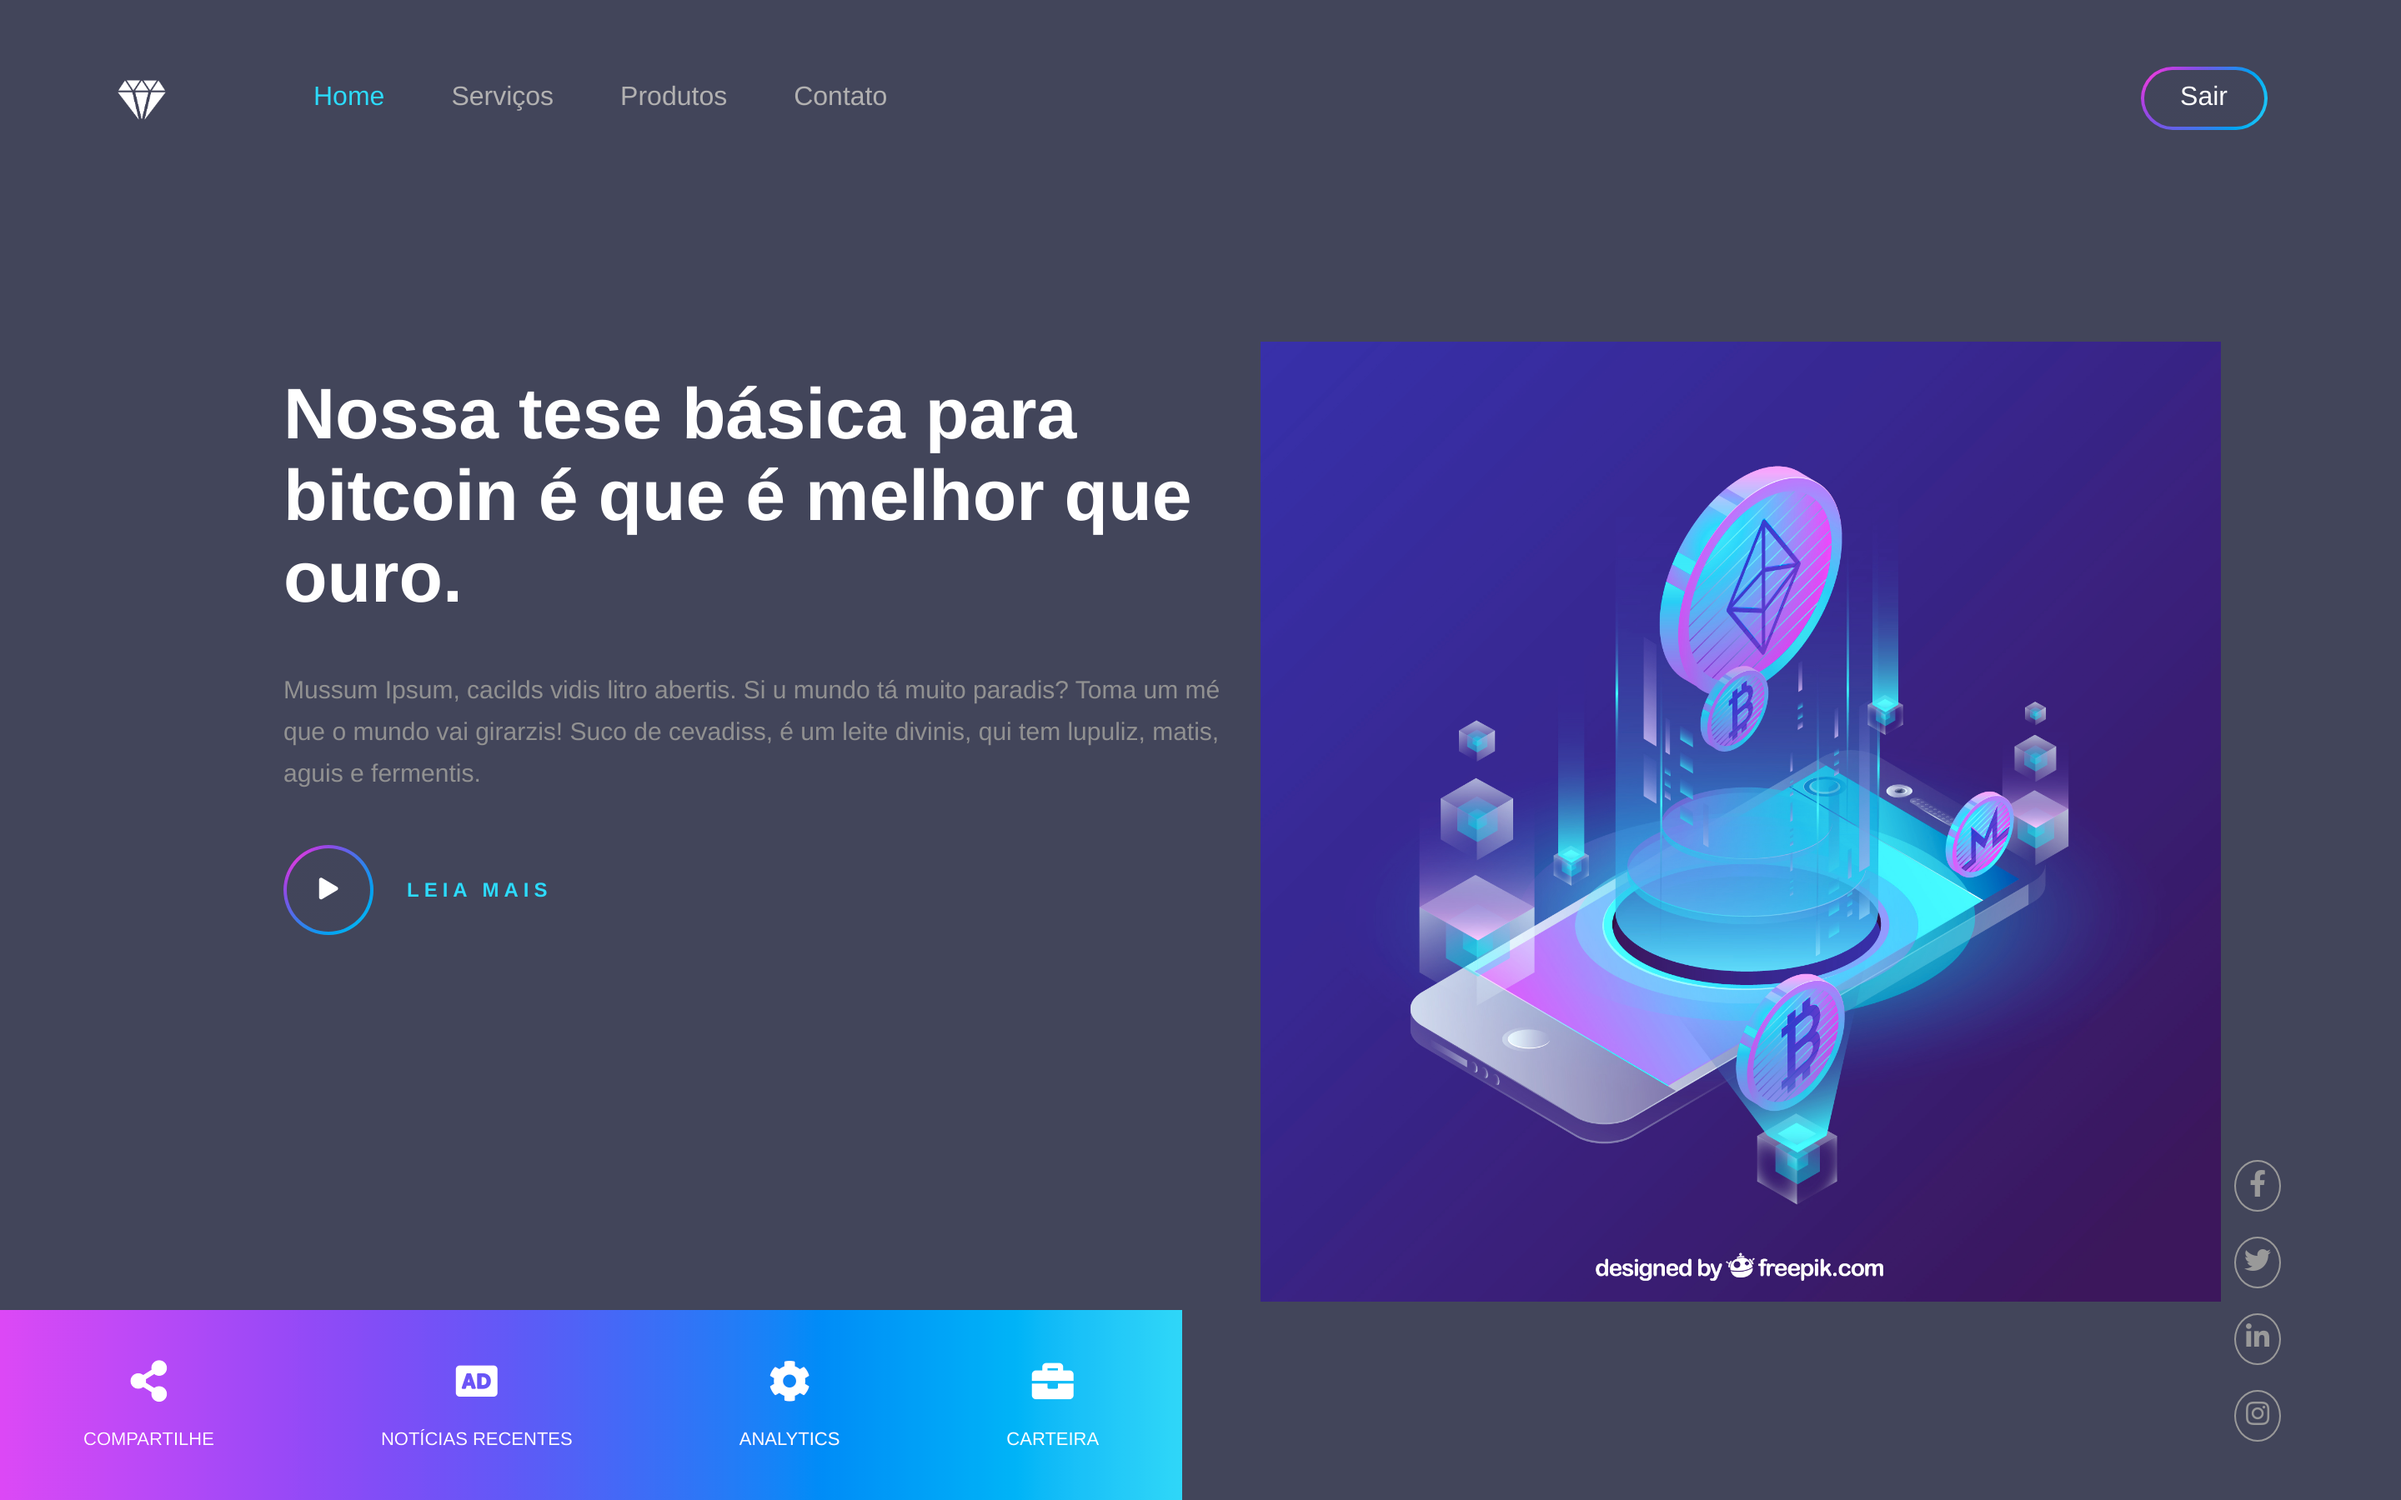
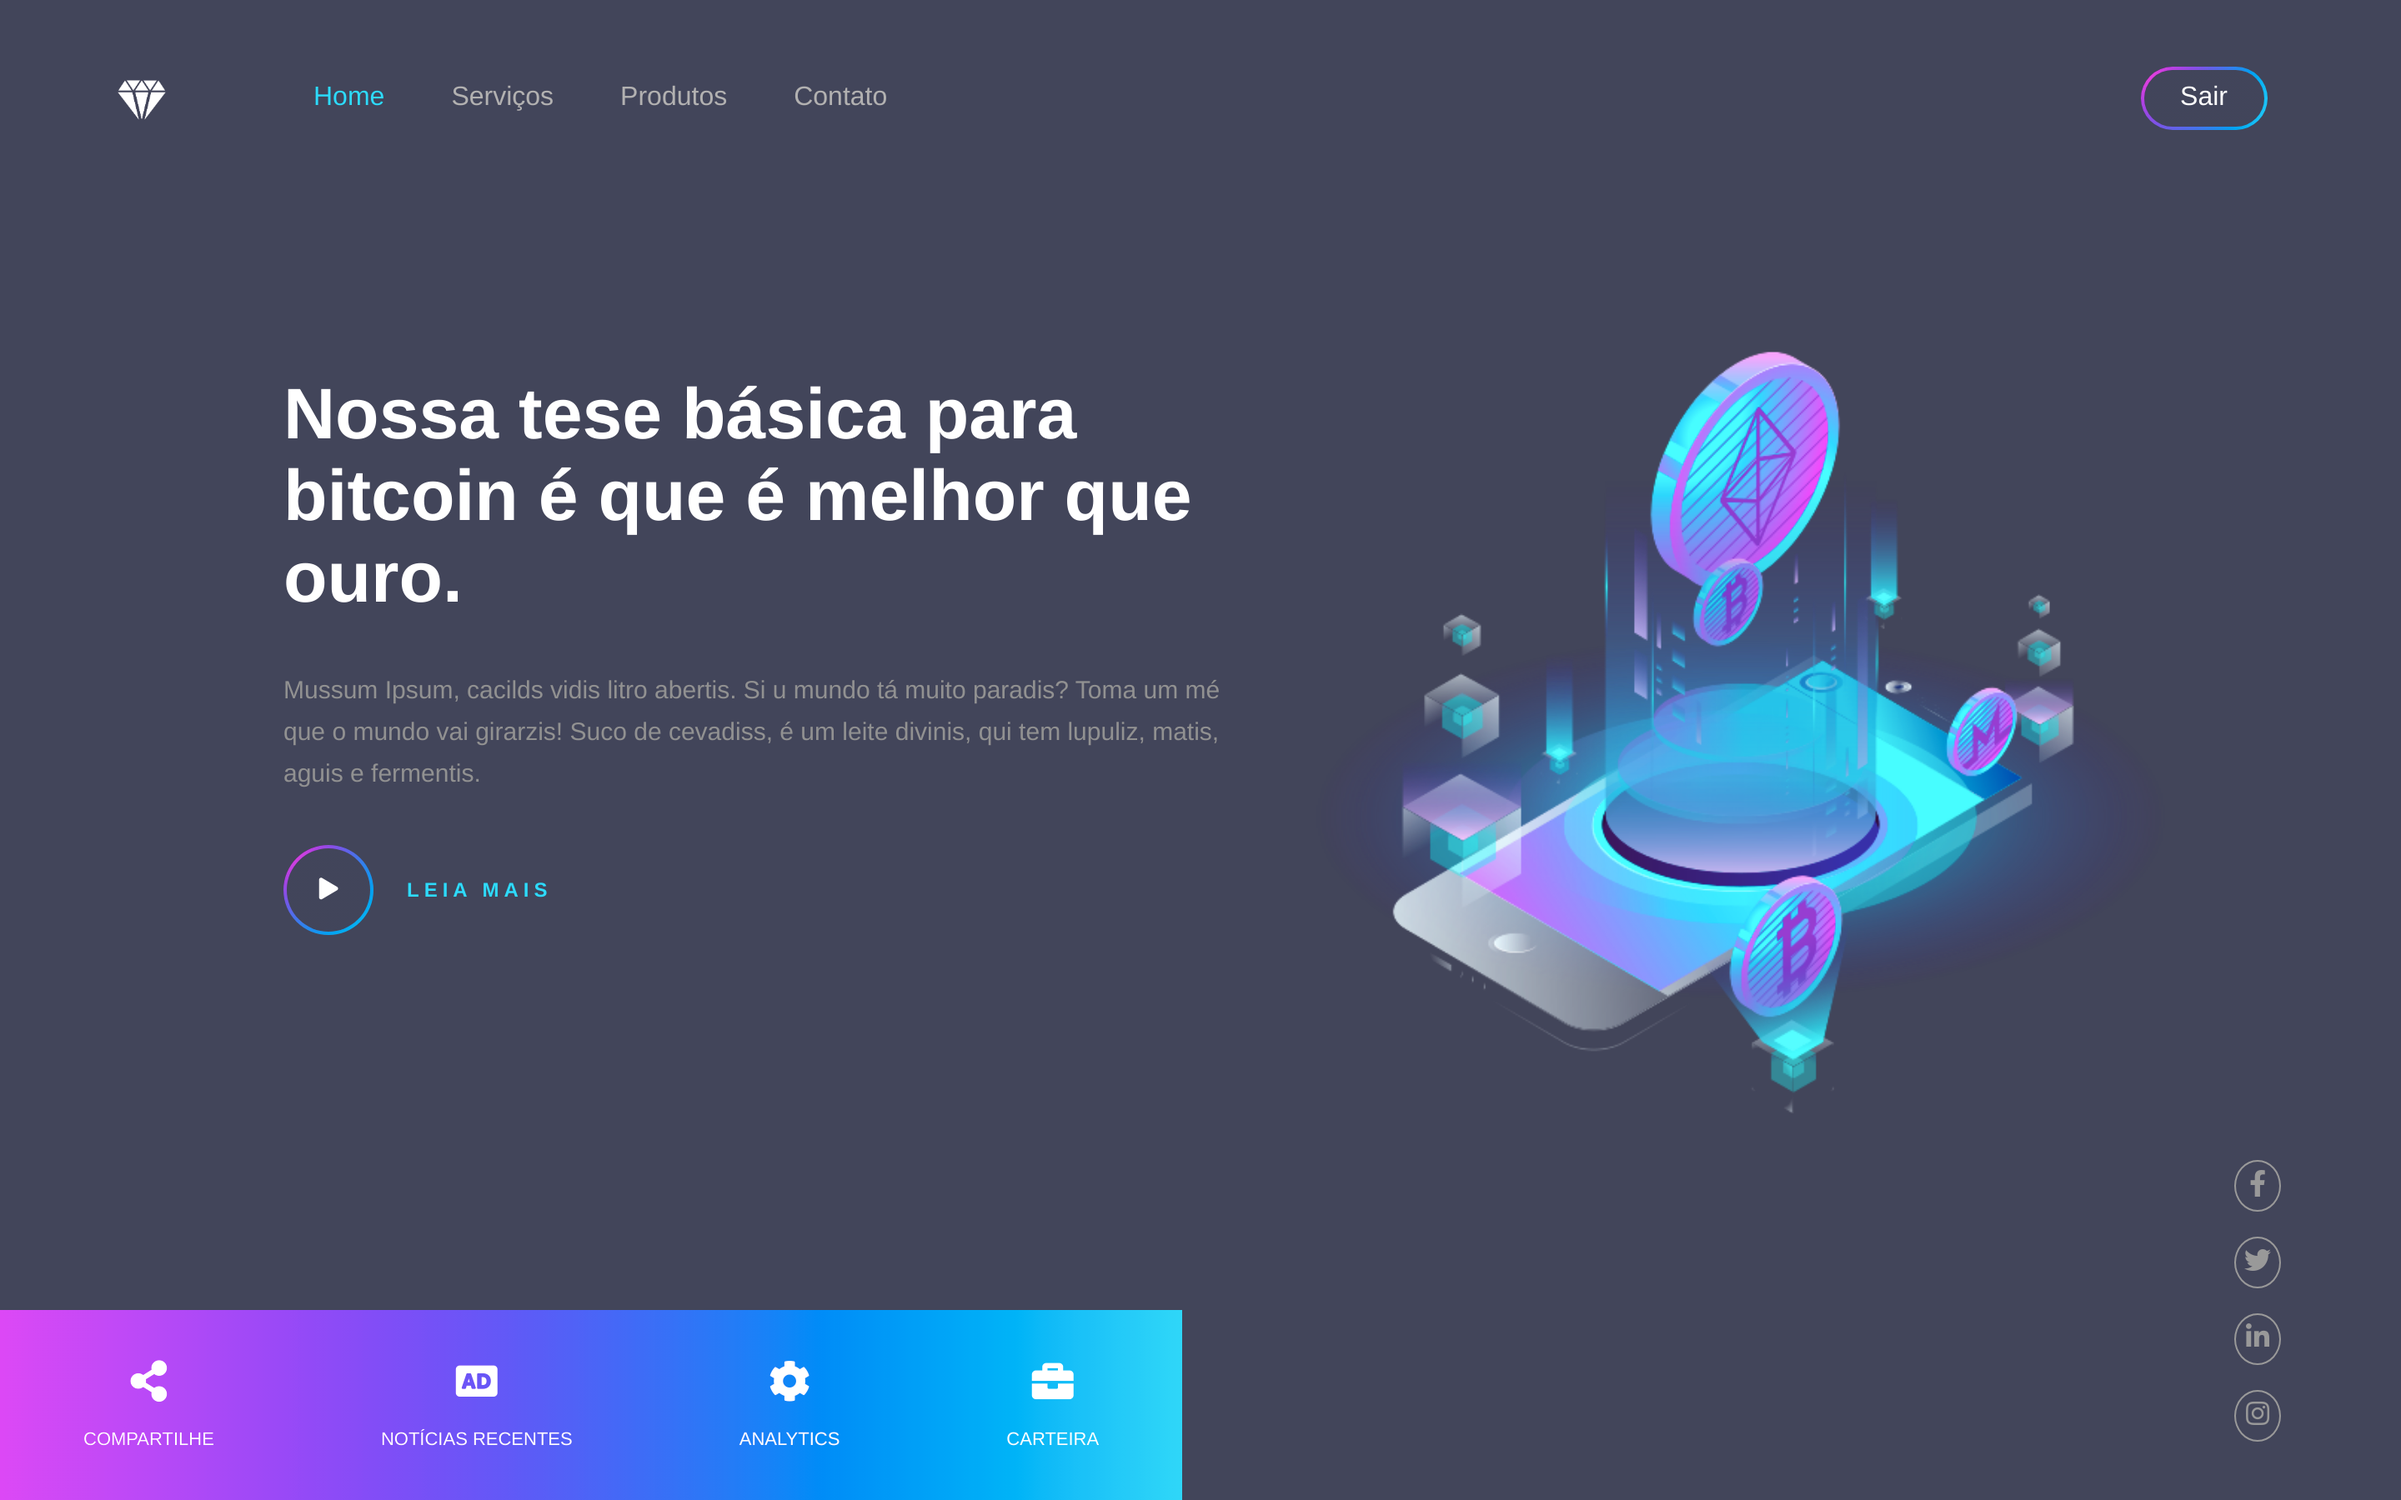
Alterei imagem para png e atualizei imagem do site

Changed region(s): [[0.5, 0.2178, 0.9375, 0.8711]]

diff --git a/index.html b/index.html
@@ -30,7 +30,7 @@
         </div>
       </div>
       <div class="app-picture">
-        <img src="img/Artboard.jpg" alt="Imagem blockchain">
+        <img src="img/Artboard.png" alt="Imagem blockchain">
       </div>
     </div>
     <div class="quick-links">
